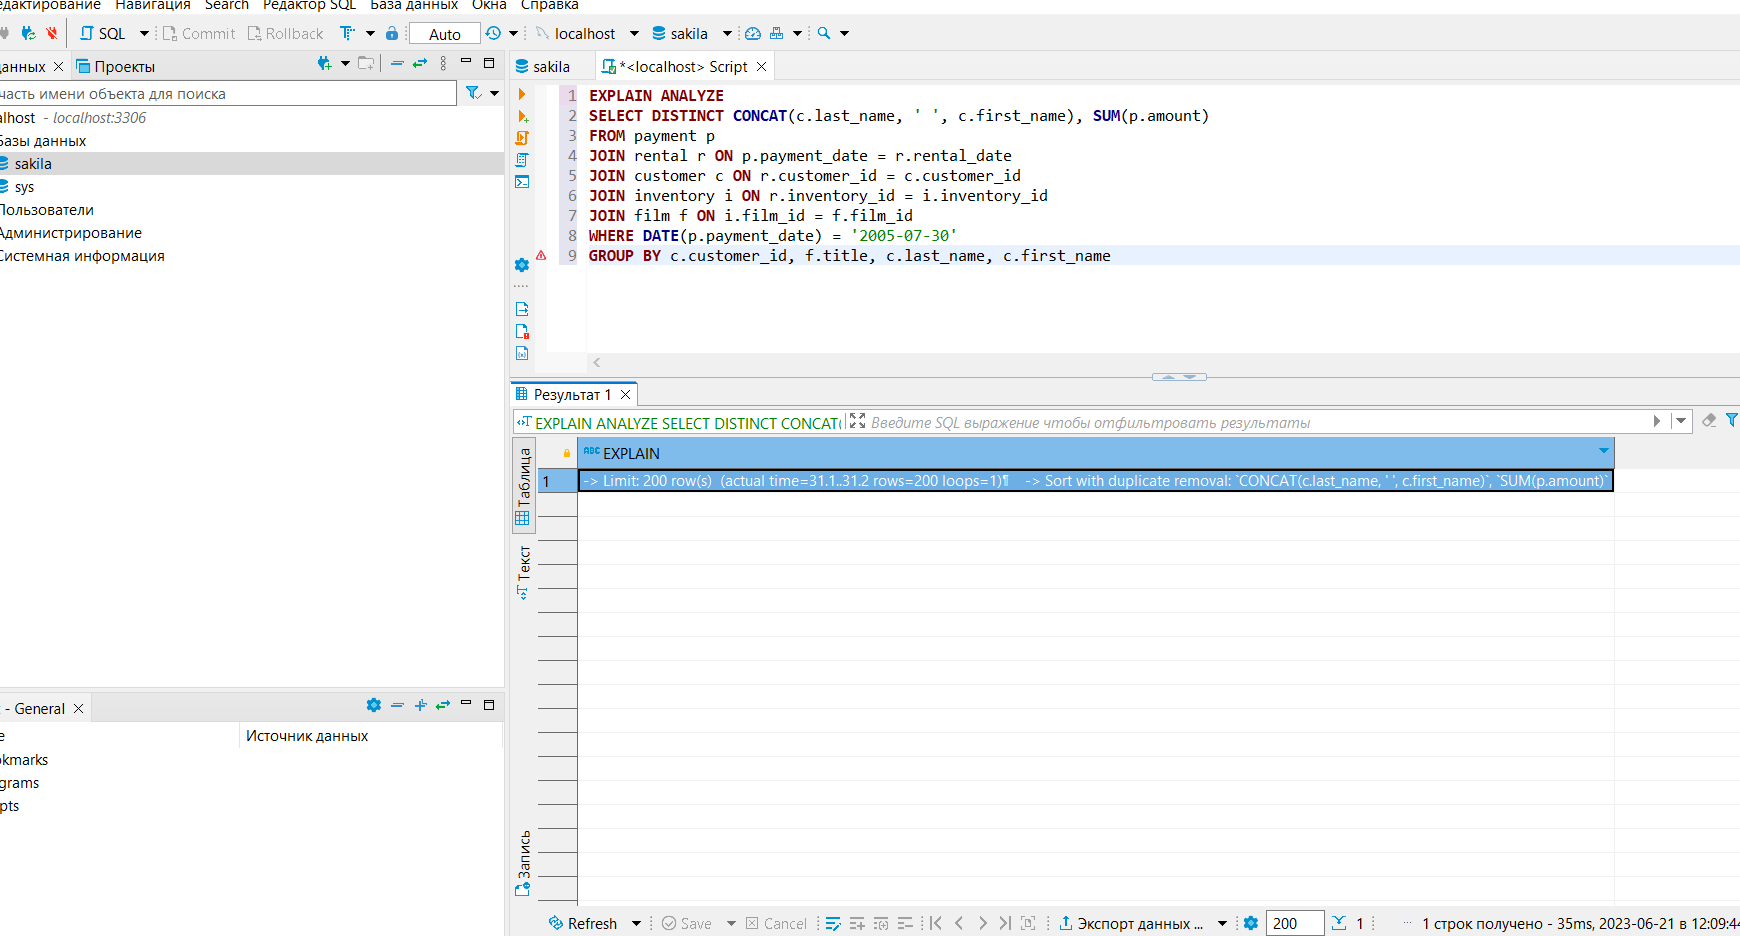
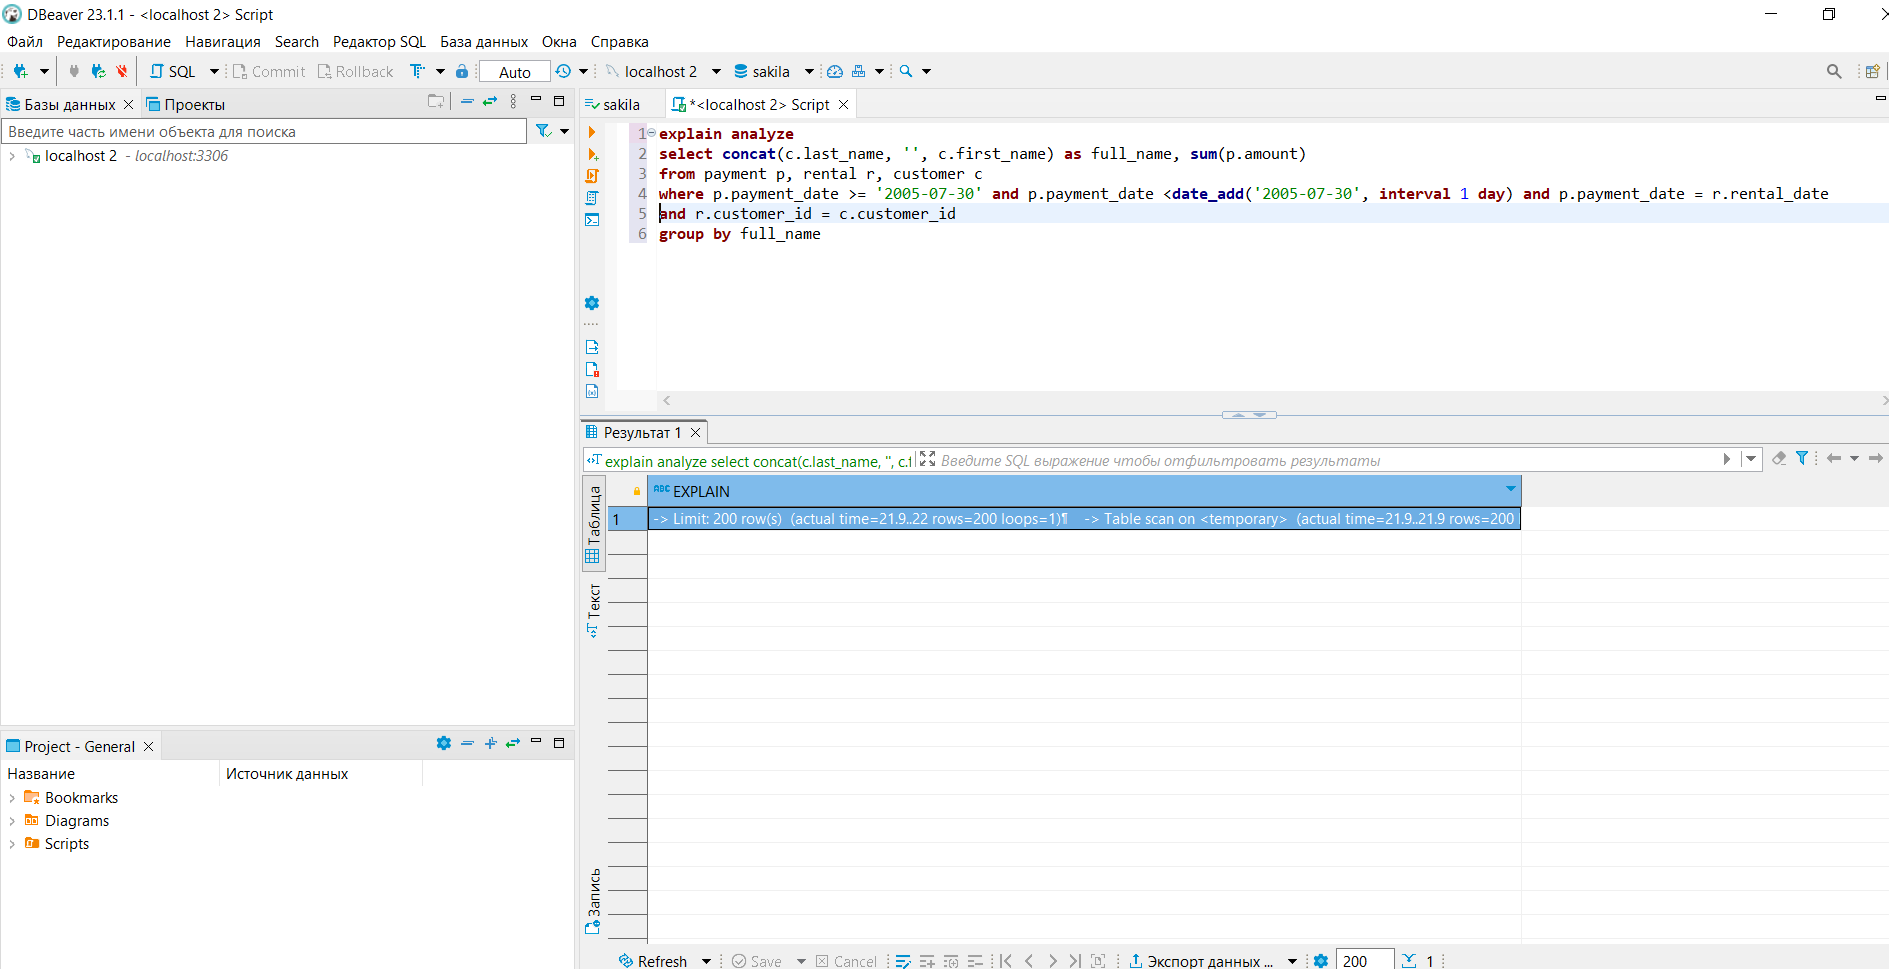
add hw

diff --git a/README.md b/README.md
@@ -42,26 +42,19 @@ where date(p.payment_date) = '2005-07-30' and p.payment_date = r.rental_date and
  ```
 - оптимизируйте запрос: внесите корректировки по использованию операторов, при необходимости добавьте индексы.
 
-Заменим запятую в FROM на ключевое слово JOIN для явного указания типа соединения,
-Добавим индексы на соединяемые столбцы, 
-Упростим оконную функцию сделав обычную агрегацию с GROUP BY вместо оконной функции SUM
+
 
 ![image](2.png)
 ```
--> Limit: 200 row(s)  (actual time=24.3..24.4 rows=200 loops=1)
-    -> Sort with duplicate removal: `CONCAT(c.last_name, ' ', c.first_name)`, `SUM(p.amount)`  (actual time=24.3..24.4 rows=200 loops=1)
-        -> Table scan on <temporary>  (actual time=23.1..23.4 rows=634 loops=1)
-            -> Aggregate using temporary table  (actual time=23.1..23.1 rows=634 loops=1)
-                -> Nested loop inner join  (cost=35336 rows=16010) (actual time=0.15..20 rows=642 loops=1)
-                    -> Nested loop inner join  (cost=29733 rows=16010) (actual time=0.143..18.3 rows=642 loops=1)
-                        -> Nested loop inner join  (cost=24129 rows=16010) (actual time=0.137..16.8 rows=642 loops=1)
-                            -> Nested loop inner join  (cost=18526 rows=16010) (actual time=0.127..15.4 rows=642 loops=1)
-                                -> Filter: (cast(p.payment_date as date) = '2005-07-30')  (cost=1606 rows=15813) (actual time=0.104..11.6 rows=634 loops=1)
-                                    -> Table scan on p  (cost=1606 rows=15813) (actual time=0.0781..8.86 rows=16044 loops=1)
-                                -> Covering index lookup on r using rental_date (rental_date=p.payment_date)  (cost=0.969 rows=1.01) (actual time=0.00405..0.00576 rows=1.01 loops=634)
-                            -> Single-row index lookup on c using PRIMARY (customer_id=r.customer_id)  (cost=0.25 rows=1) (actual time=0.00184..0.00187 rows=1 loops=642)
-                        -> Single-row index lookup on i using PRIMARY (inventory_id=r.inventory_id)  (cost=0.25 rows=1) (actual time=0.00211..0.00215 rows=1 loops=642)
-                    -> Single-row index lookup on f using PRIMARY (film_id=i.film_id)  (cost=0.25 rows=1) (actual time=0.00239..0.00244 rows=1 loops=642)
+-> Limit: 200 row(s)  (actual time=21.9..22 rows=200 loops=1)
+    -> Table scan on <temporary>  (actual time=21.9..21.9 rows=200 loops=1)
+        -> Aggregate using temporary table  (actual time=21.9..21.9 rows=391 loops=1)
+            -> Nested loop inner join  (cost=4108 rows=1779) (actual time=0.151..19.7 rows=642 loops=1)
+                -> Nested loop inner join  (cost=3485 rows=1779) (actual time=0.136..18.1 rows=642 loops=1)
+                    -> Filter: ((p.payment_date >= TIMESTAMP'2005-07-30 00:00:00') and (p.payment_date < <cache>(('2005-07-30' + interval 1 day))))  (cost=1606 rows=1757) (actual time=0.108..14.3 rows=634 loops=1)
+                        -> Table scan on p  (cost=1606 rows=15813) (actual time=0.0819..10.4 rows=16044 loops=1)
+                    -> Covering index lookup on r using rental_date (rental_date=p.payment_date)  (cost=0.969 rows=1.01) (actual time=0.00397..0.00565 rows=1.01 loops=634)
+                -> Single-row index lookup on c using PRIMARY (customer_id=r.customer_id)  (cost=0.25 rows=1) (actual time=0.00208..0.00213 rows=1 loops=642)
 
 
 ```
